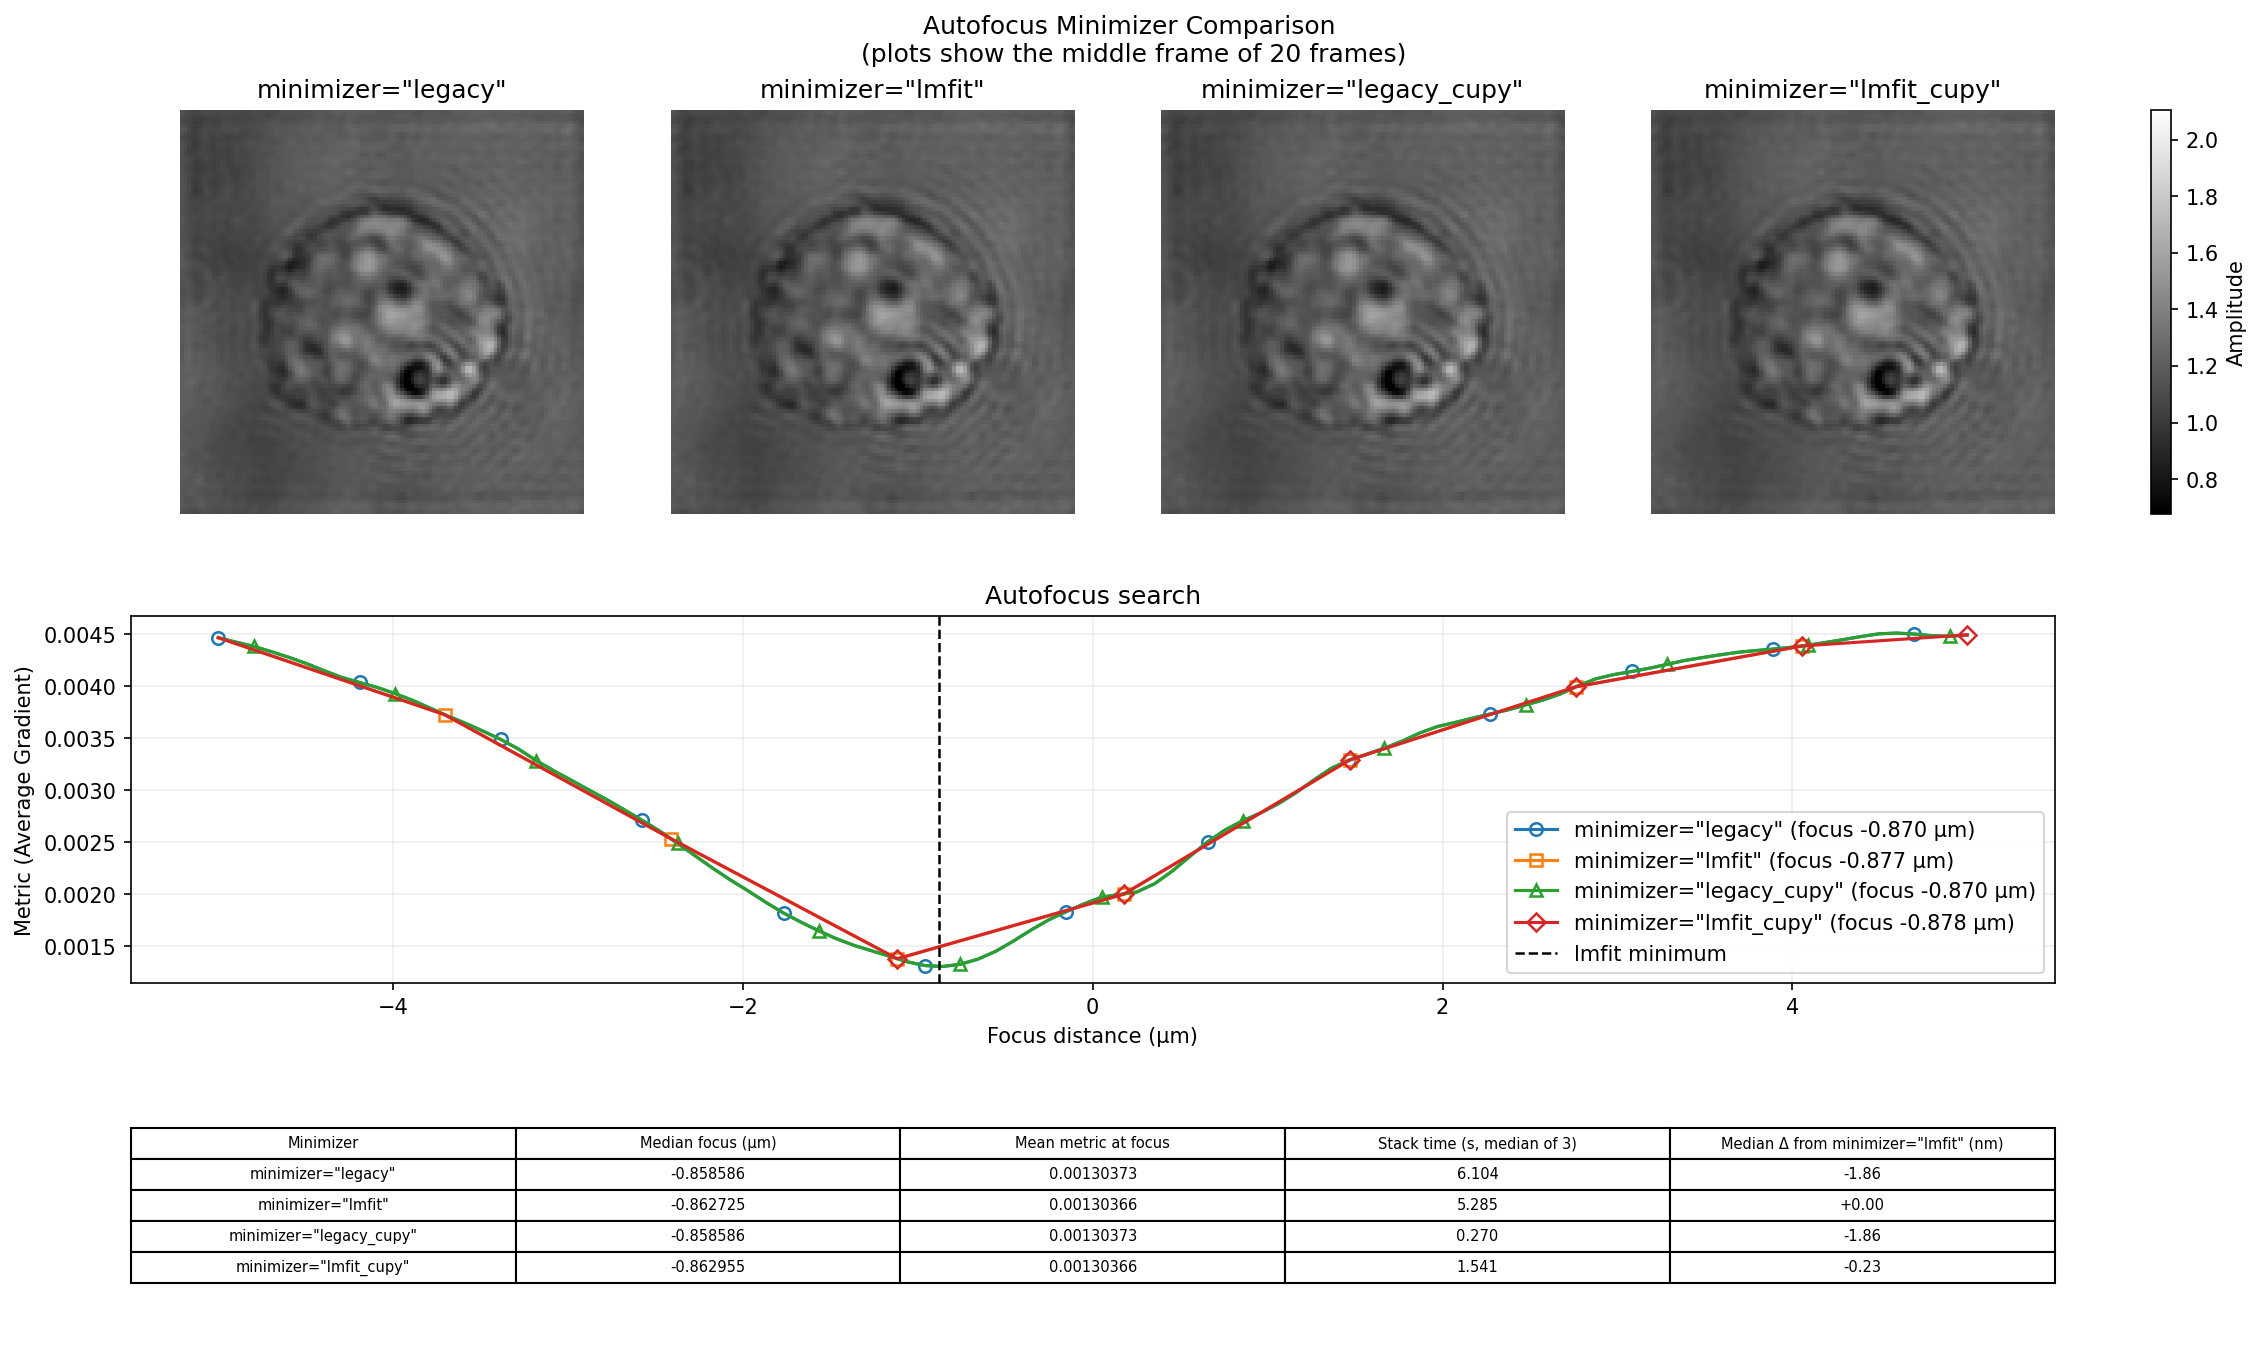
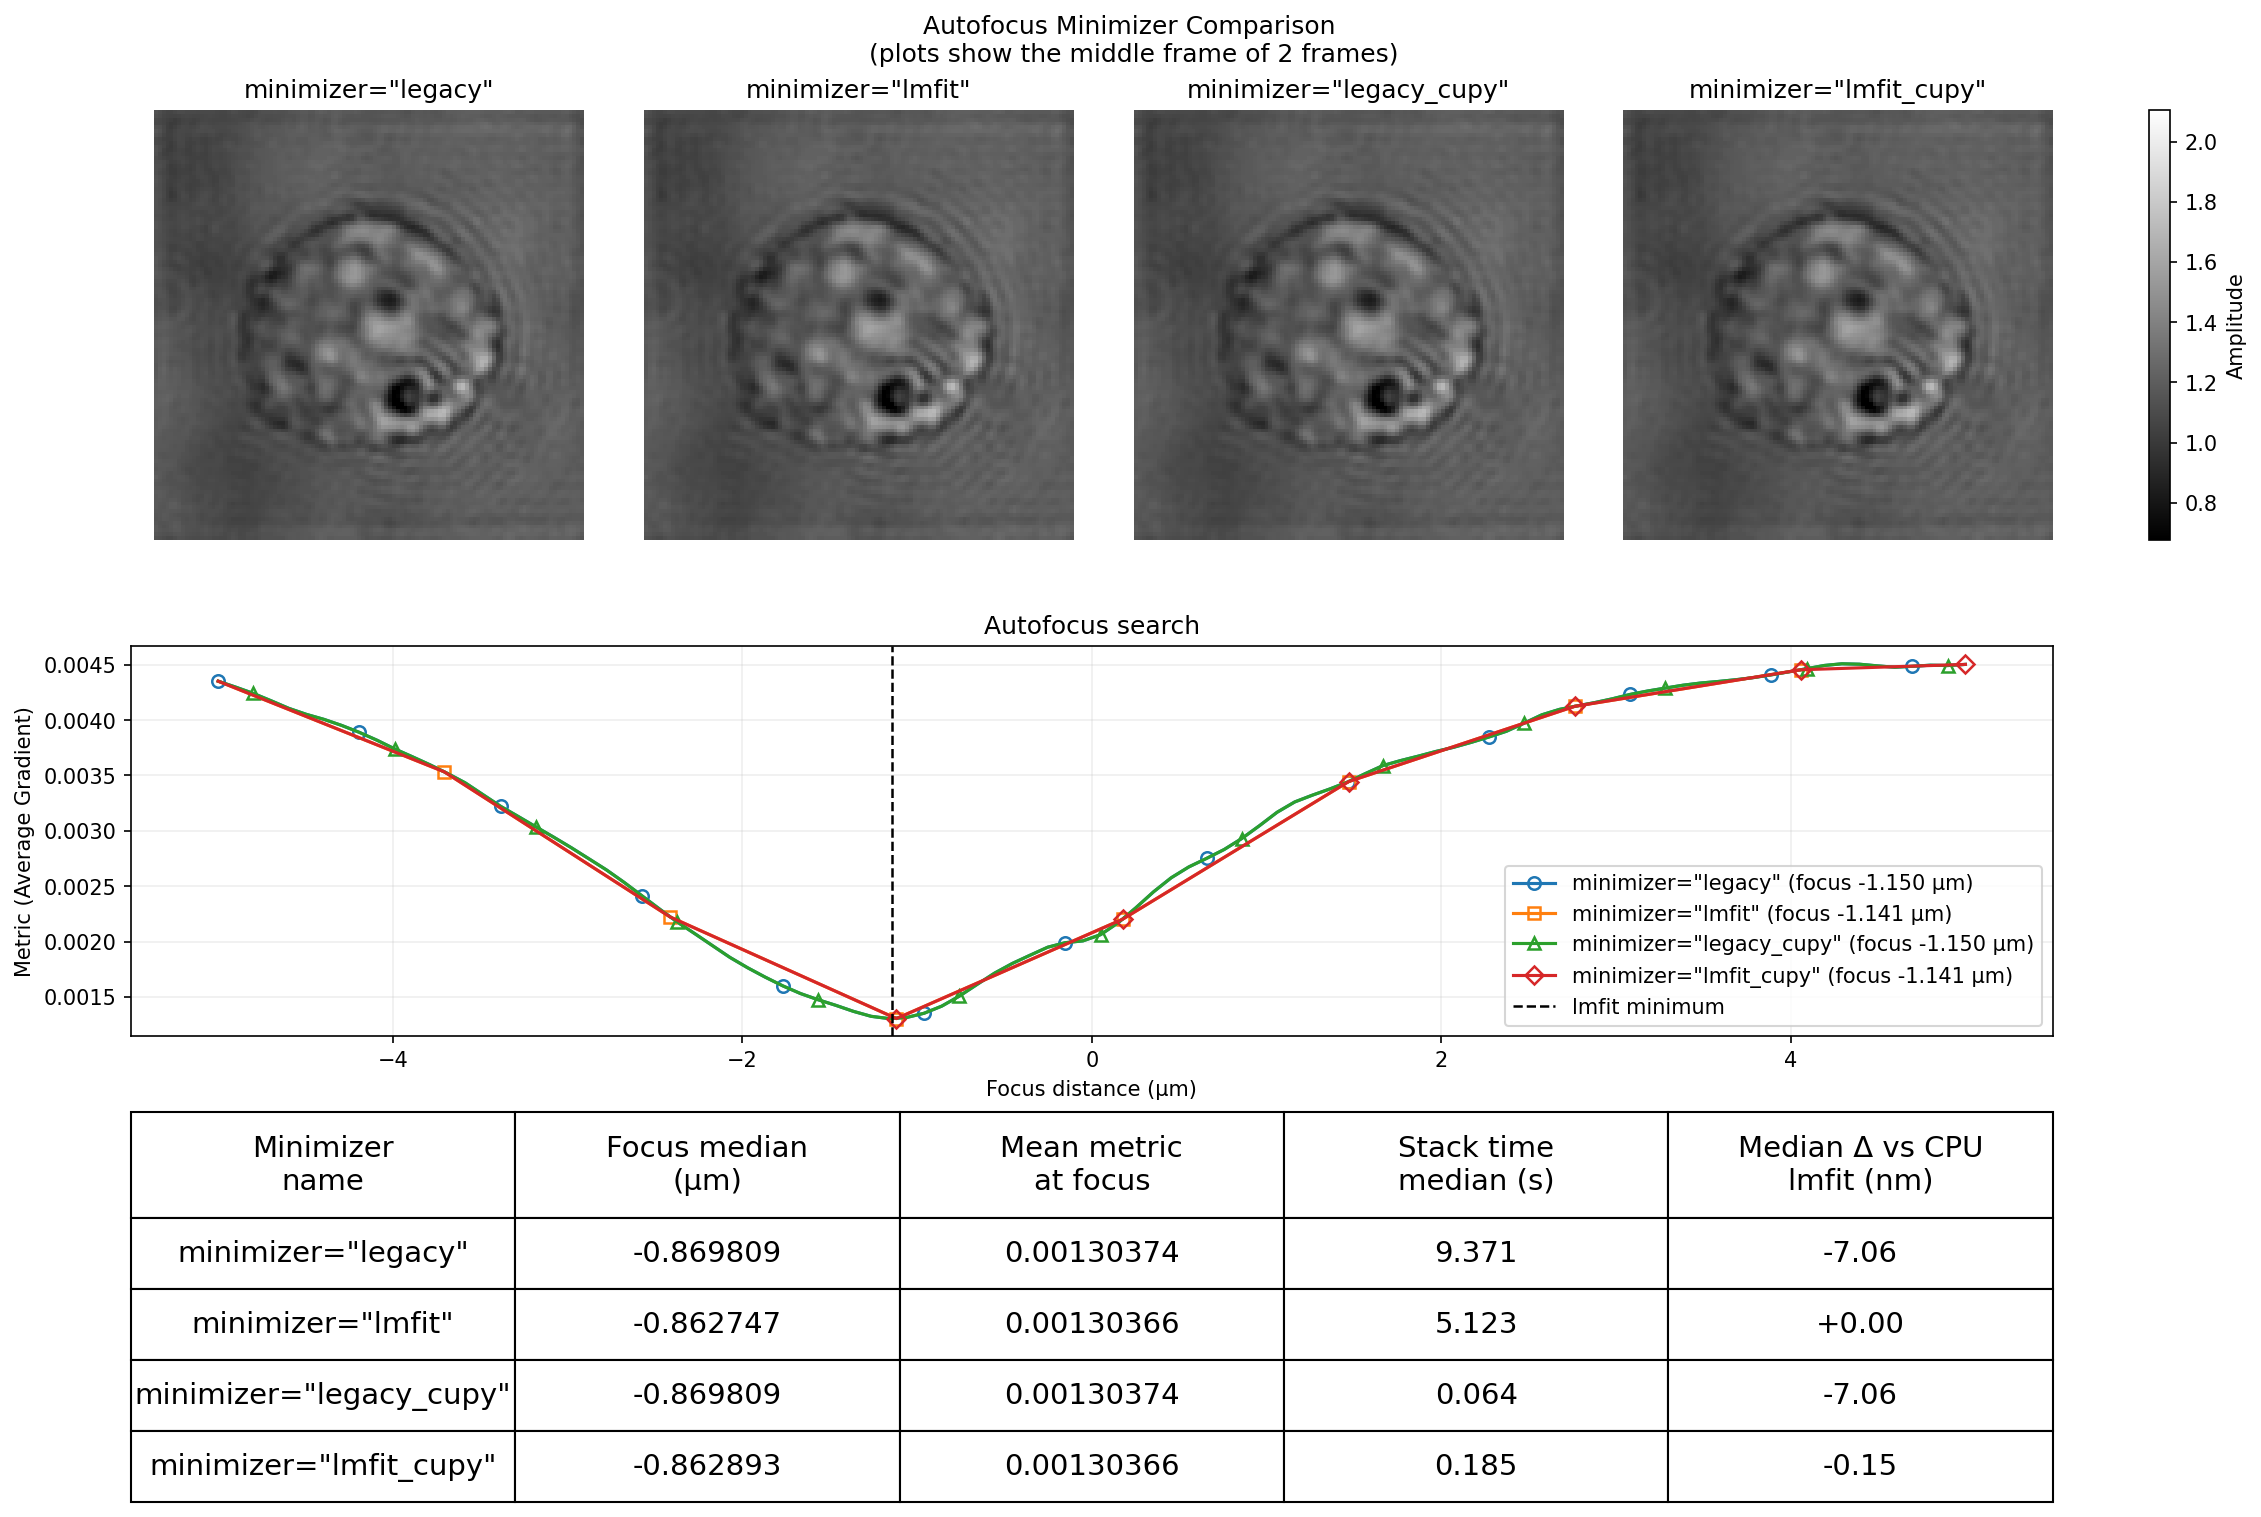
docs: add the minimizer comparison to the docs

diff --git a/examples/compare_minimizers.py b/examples/compare_minimizers.py
@@ -1,15 +1,20 @@
-"""Compare CPU and GPU legacy/lmfit autofocus on a 20-frame HL60 stack.
+"""Compare available Minimizers for Autofocus
+
+We currently have an lmfit (recommended) minimizer for CPU and GPU, as well
+as a legacy minimizer for both CPU and GPU. See the figure below for details on
+accuracy and speed.
+
+The HL60 cell data used is described in `refocus_cell.py` and is stacked here
+for more comparable timings.
 
 Run from the repository root with::
 
     python examples/compare_minimizers.py
 
-The figure shows the middle frame's metric search and focused amplitude for
-each minimizer. The table reports middle-frame focus results and full-stack
-runtime. GPU results are omitted if CuPy or a CUDA device is unavailable.
 """
 import statistics
 import time
+from pathlib import Path
 
 import matplotlib.pyplot as plt
 import numpy as np
@@ -23,18 +28,18 @@ RES = WAVELENGTH / PIXEL_SIZE
 INTERVAL = (-5e-6 / PIXEL_SIZE, 5e-6 / PIXEL_SIZE)
 ROI = (slice(8, -8), slice(8, -8))
 _TIMING_REPEATS = 3
-_NFRAMES = 20
+_NFRAMES = 10
 
 
 def _host_array(value):
-    """Return a NumPy view/copy of either a NumPy or CuPy array."""
+    '''Return a NumPy view/copy of either a NumPy or CuPy array.'''
     if hasattr(value, "get"):
         return value.get()
     return np.asarray(value)
 
 
 def _make_stack(field):
-    """Make n distinct planes by propagating the input across focus offsets."""
+    '''Make n distinct planes by propagating the input across focus offsets.'''
     nrefocus.set_ndarray_backend("numpy")
     rf = nrefocus.iface.RefocusNumpy(
         field=field, wavelength=RES, pixel_size=1, medium_index=1.333,
@@ -43,7 +48,7 @@ def _make_stack(field):
 
 
 def _run_case(fieldstack, backend, minimizer):
-    """Run one stack autofocus case and collect median timing and outputs."""
+    '''Run one stack autofocus case and collect median timing and outputs.'''
     nrefocus.set_ndarray_backend(backend)
     if backend == "cupy":
         import cupy as cp
@@ -52,7 +57,7 @@ def _run_case(fieldstack, backend, minimizer):
                if minimizer in ("legacy", "legacy_cupy") else {})
 
     def run_stack():
-        """Run and synchronize one complete stack autofocus call."""
+        '''Run and synchronize one complete stack autofocus call.'''
         start = time.perf_counter()
         if backend == "cupy":
             distances, focused = nrefocus.autofocus_stack_cupy(
@@ -108,7 +113,7 @@ def _run_case(fieldstack, backend, minimizer):
 
 
 def main():
-    """Run four stack comparisons and display plots plus a summary table."""
+    '''Run four stack comparisons and display plots plus a summary table.'''
     field = load_cell("HL60_field.zip")
     fieldstack = _make_stack(field)
     cases = [("numpy", "legacy"), ("numpy", "lmfit")]
@@ -131,8 +136,8 @@ def main():
                            row["minimizer"] == "lmfit")
     reference = lmfit_reference["distances"]
 
-    fig = plt.figure(figsize=(15, 9), constrained_layout=True)
-    layout = fig.add_gridspec(4, 4, height_ratios=(1.1, 0.16, 1.0, 0.8))
+    fig = plt.figure(figsize=(15, 10), constrained_layout=True)
+    layout = fig.add_gridspec(4, 4, height_ratios=(1.1, 0.16, 1.0, 1.0))
     image_axes = [fig.add_subplot(layout[0, i]) for i in range(4)]
     curve_ax = fig.add_subplot(layout[2, :])
     table_ax = fig.add_subplot(layout[3, :])
@@ -176,9 +181,9 @@ def main():
                      fraction=0.025, label="Amplitude")
 
     table_ax.axis("off")
-    columns = ["Minimizer", "Median focus (µm)", "Mean metric at focus",
-               "Stack time (s, median of 3)",
-               'Median Δ from minimizer="lmfit" (nm)']
+    columns = ["Minimizer\nname", "Focus median\n(µm)",
+               "Mean metric\nat focus", "Stack time\nmedian (s)",
+               "Median Δ vs CPU\nlmfit (nm)"]
     rows = [[
         'minimizer="{}"'.format(result["minimizer"]),
         "{:.6f}".format(np.median(result["distances"]) * PIXEL_SIZE * 1e6),
@@ -187,11 +192,18 @@ def main():
         "{:+.2f}".format(np.median(
             (result["distances"] - reference) * PIXEL_SIZE * 1e9)),
     ] for result in results]
-    table_ax.table(cellText=rows, colLabels=columns, loc="center",
-                   cellLoc="center")
+    table = table_ax.table(cellText=rows, colLabels=columns, loc="center",
+                           cellLoc="center", bbox=(0, 0, 1, 1))
+    table.auto_set_font_size(False)
+    table.set_fontsize(14)
+    table.scale(1, 1.5)
+    for column in range(len(columns)):
+        header_cell = table[(0, column)]
+        header_cell.set_height(header_cell.get_height() * 1.5)
     fig.suptitle("Autofocus Minimizer Comparison \n"
                  f"(plots show the middle frame of {_NFRAMES} frames)")
-    plt.savefig("compare_minimizers.png", dpi=150, bbox_inches="tight")
+    plt.savefig(Path(__file__).with_suffix(".png"), dpi=150,
+                bbox_inches="tight")
 
 
 if __name__ == "__main__":

diff --git a/docs/sec_examples.rst b/docs/sec_examples.rst
@@ -10,5 +10,6 @@ Examples
 
 .. fancy_include:: refocus_cell.py
 .. fancy_include:: compare_metrics.py
+.. fancy_include:: compare_minimizers.py
 .. fancy_include:: refocus_stack.py
 .. fancy_include:: input_output_domains.py
